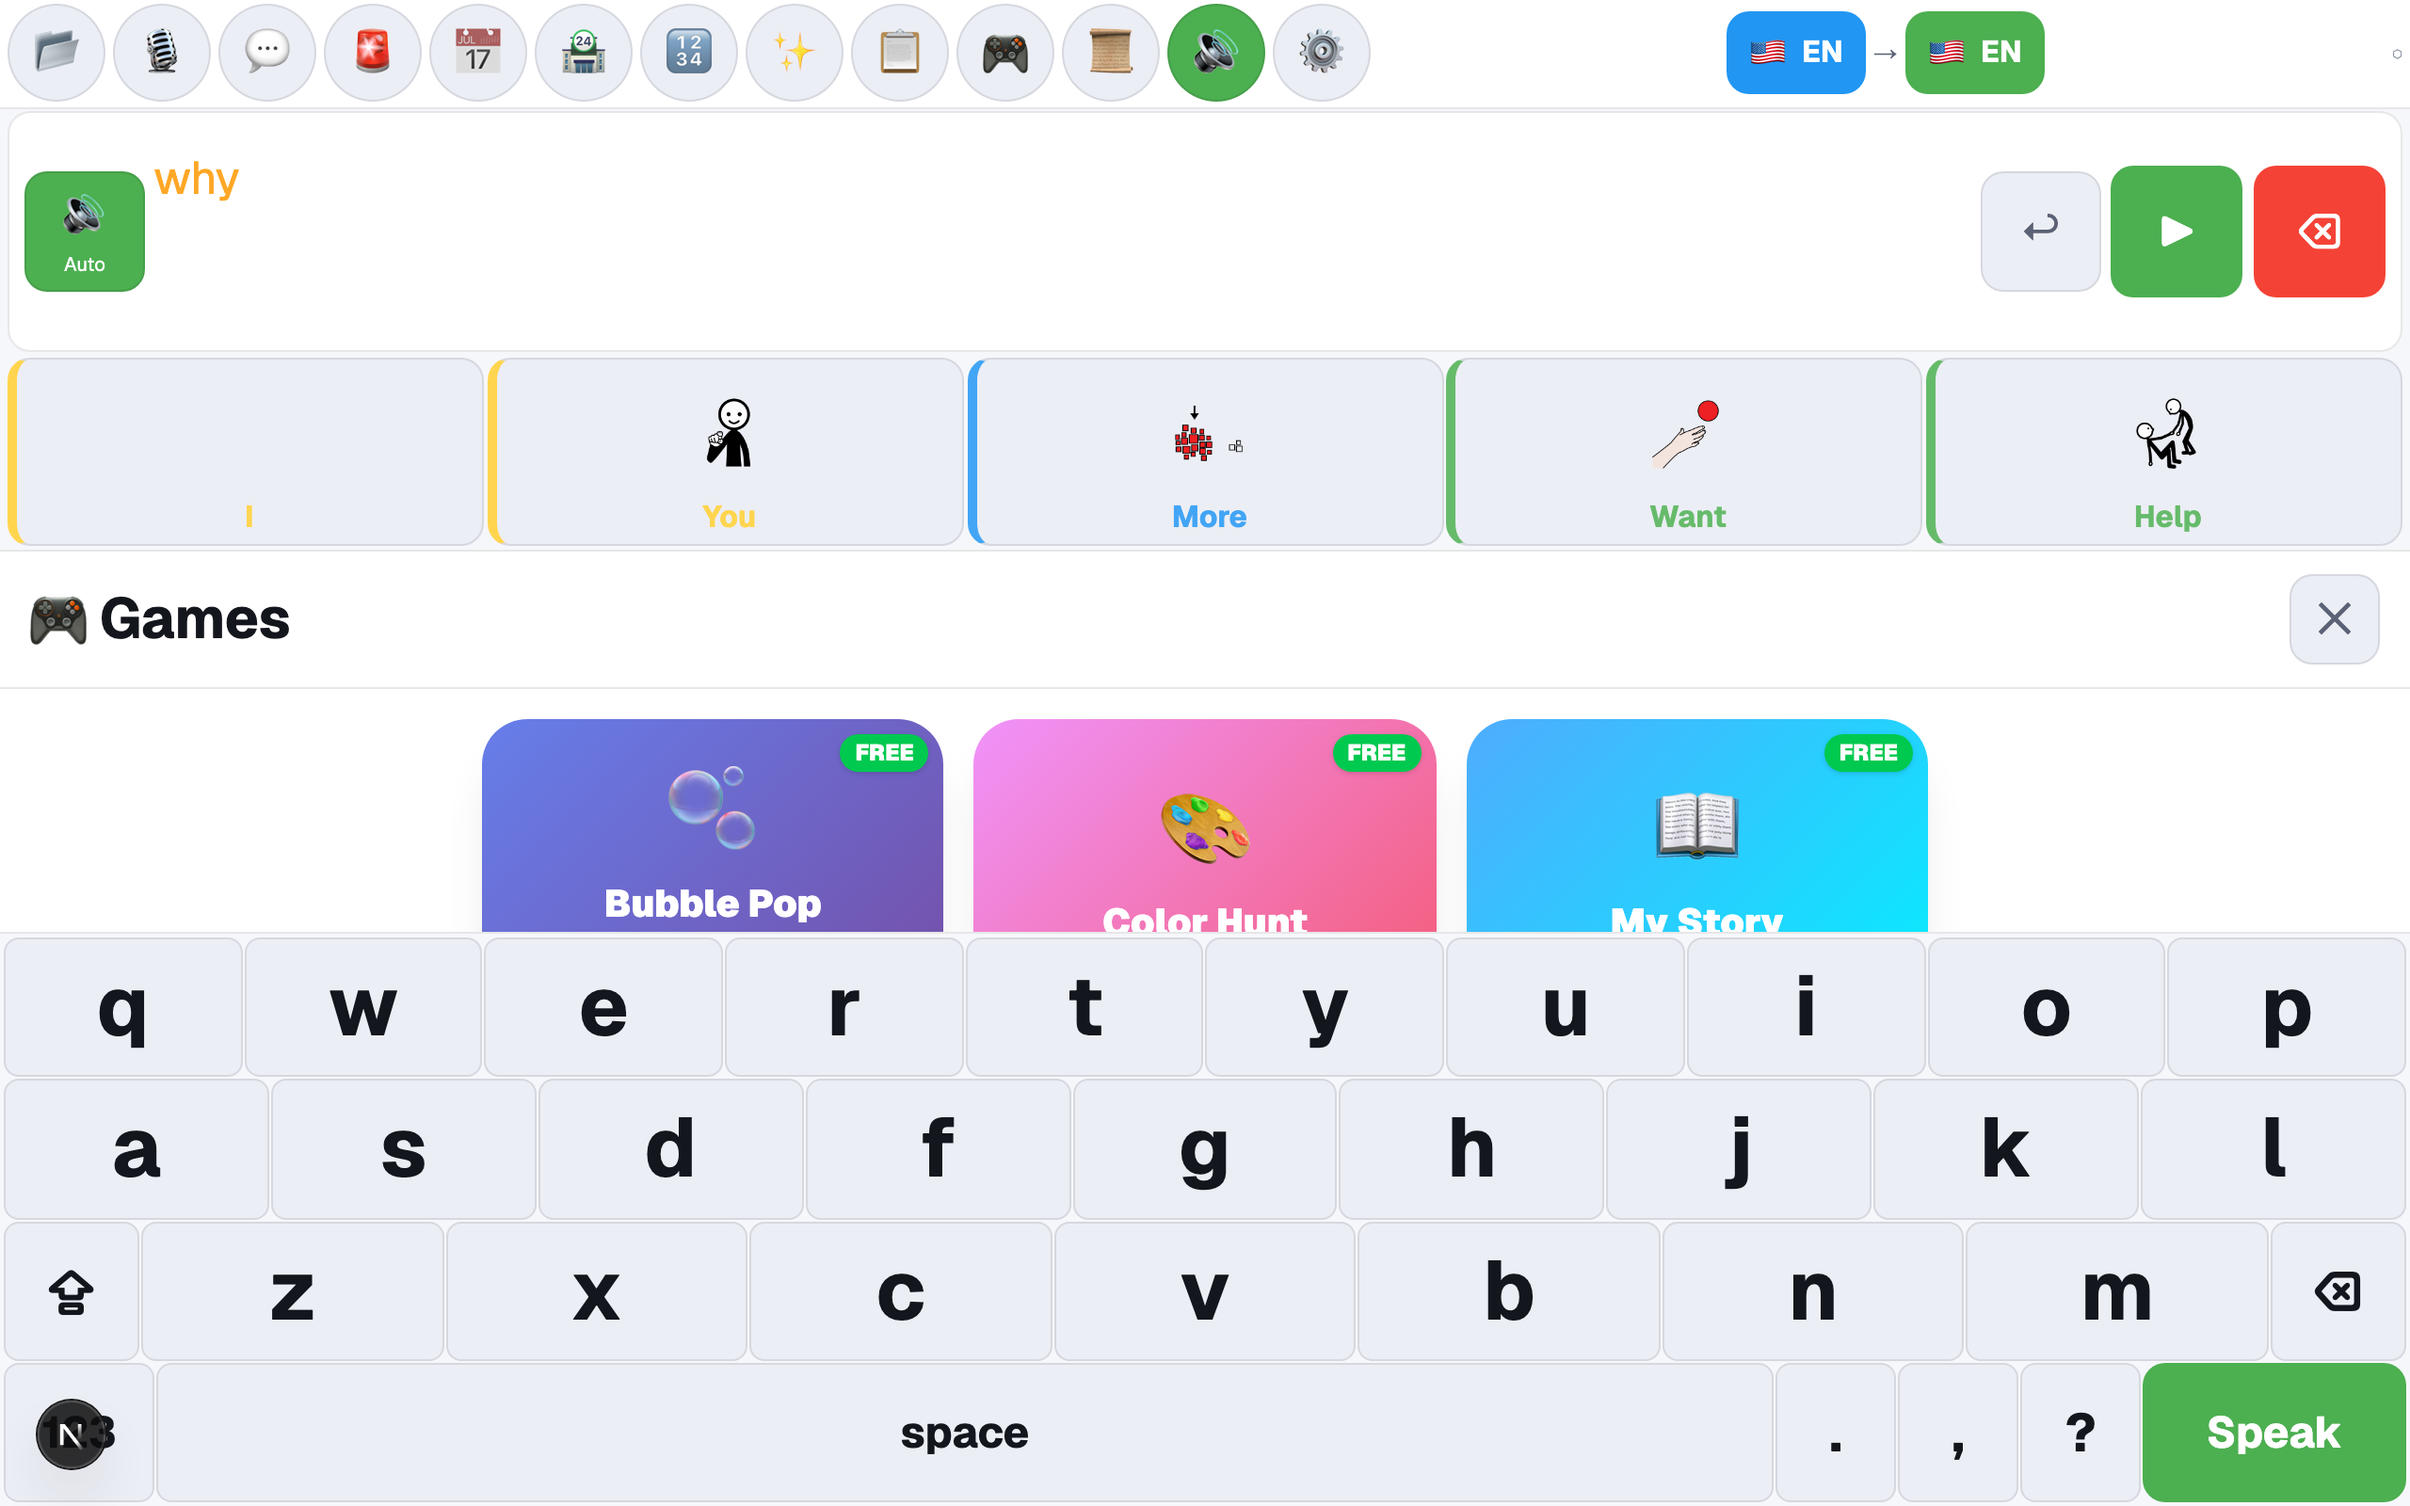
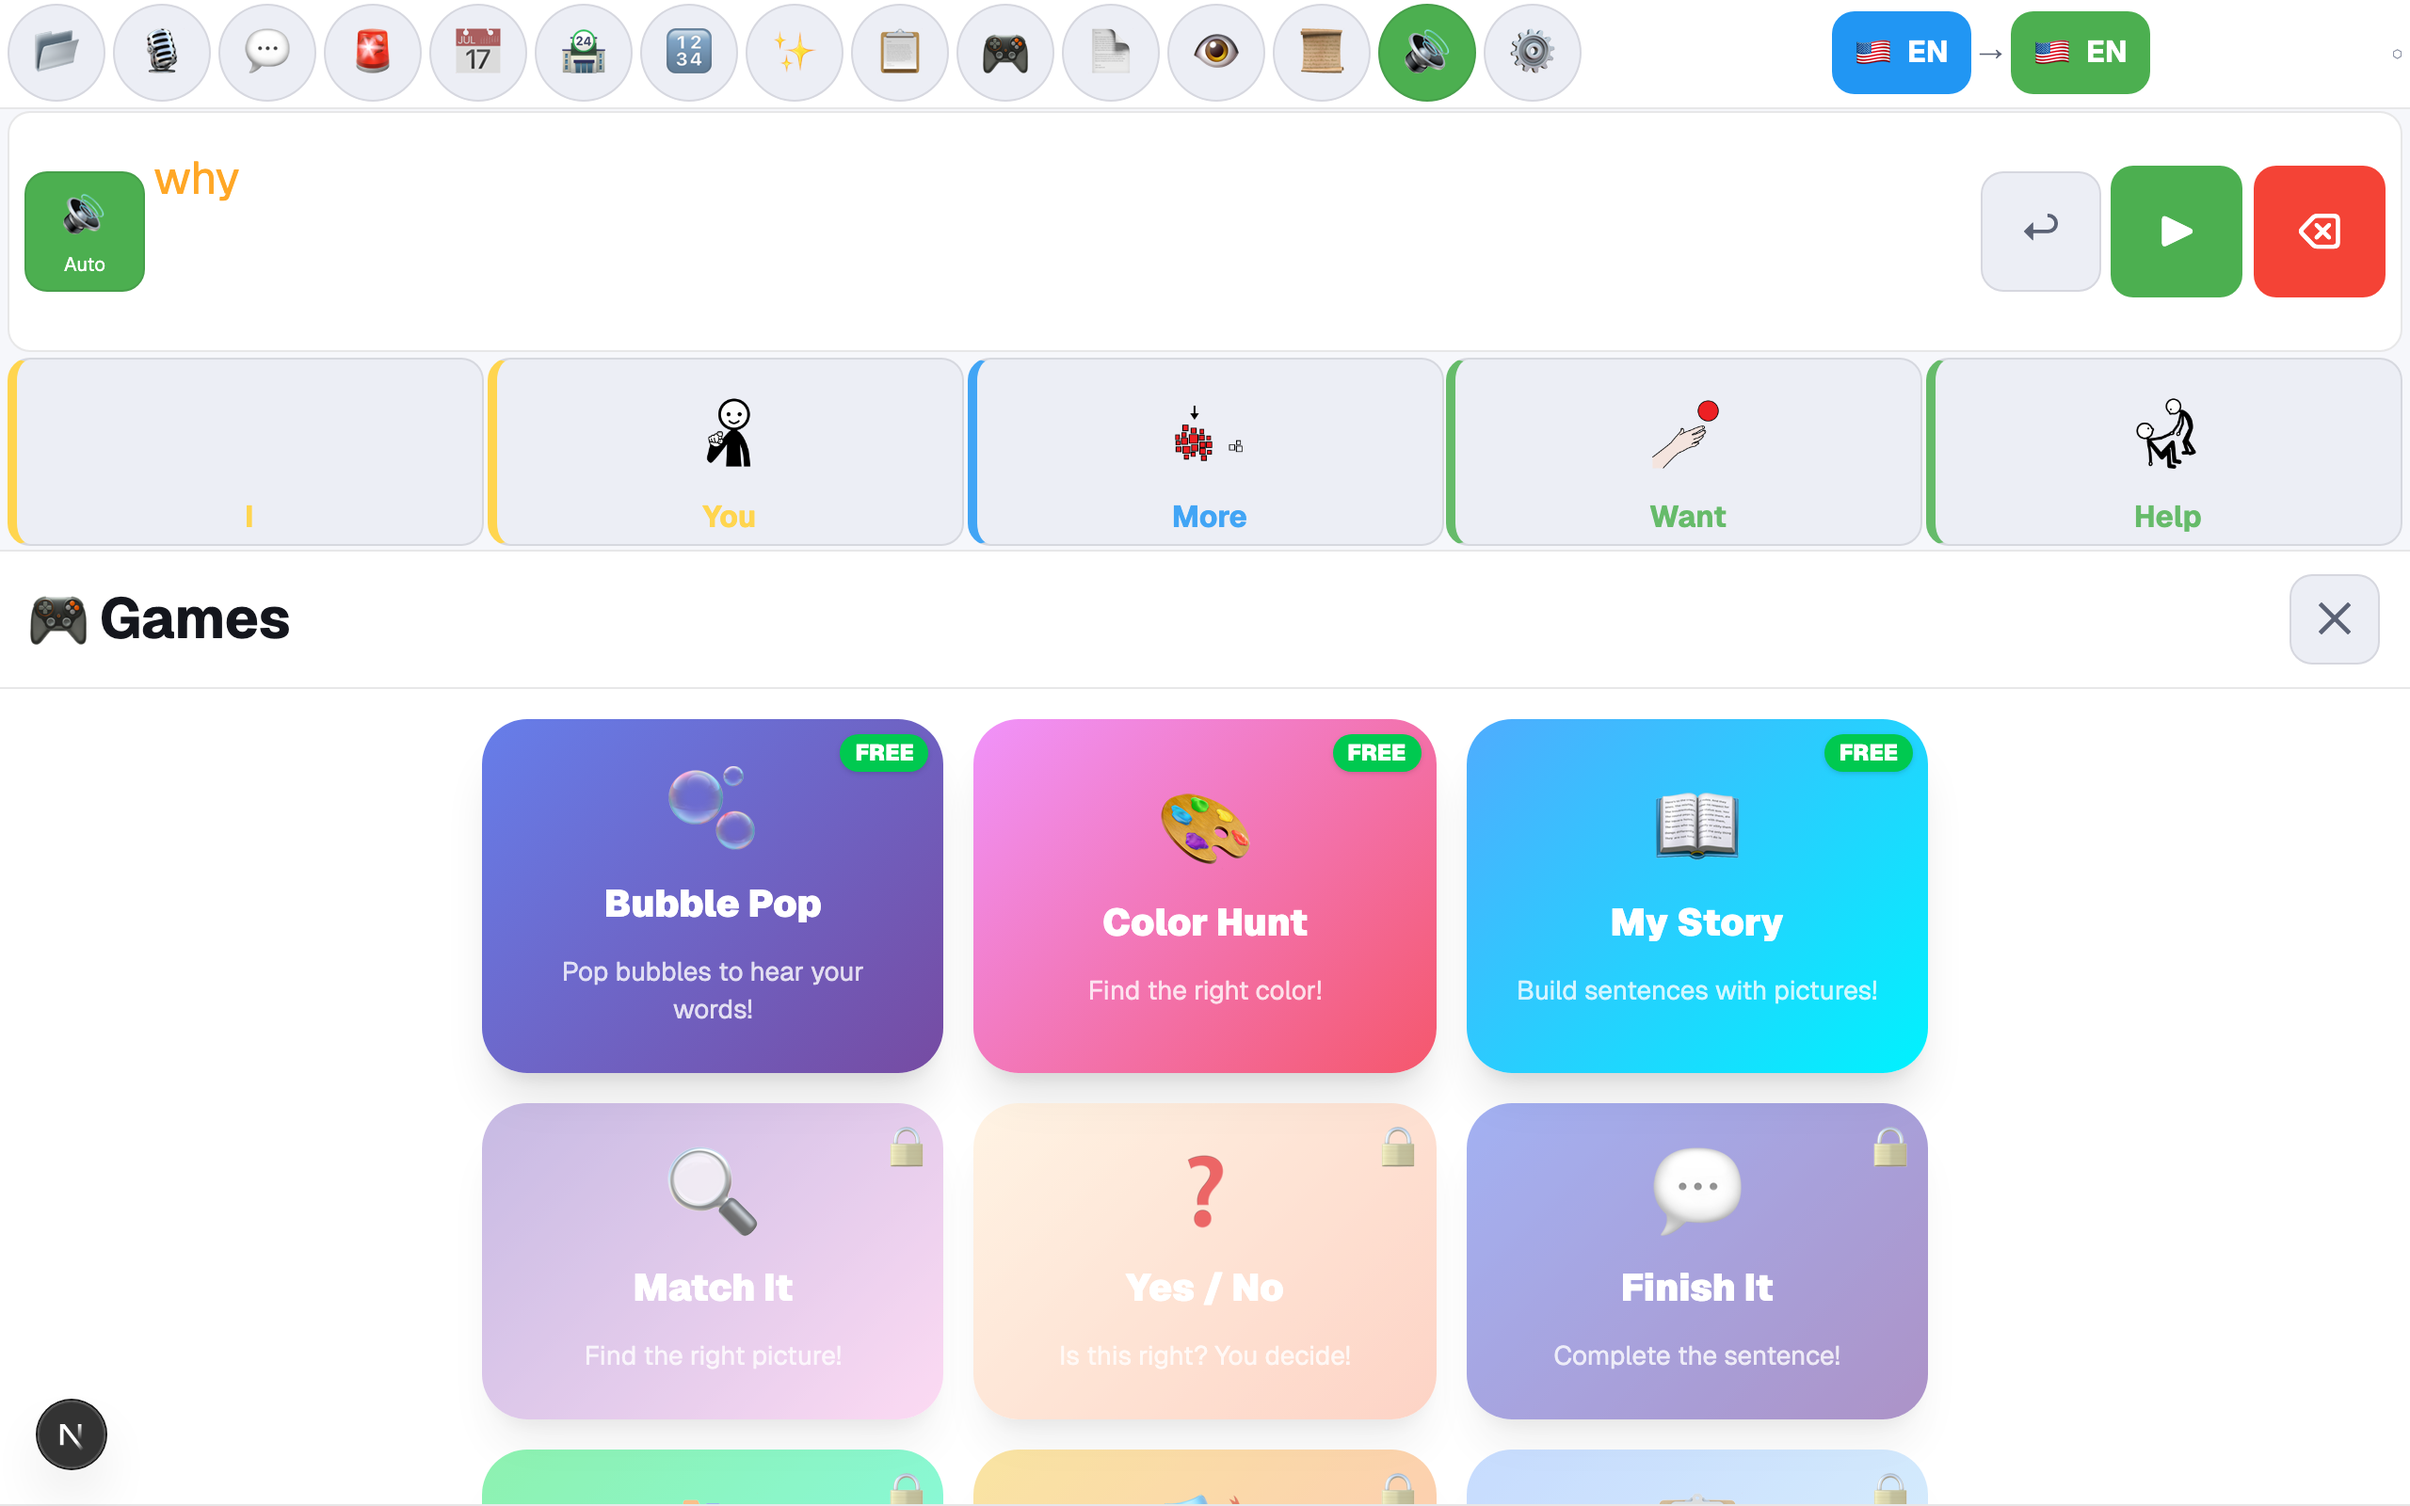
docs(readme): document Read & Write parity — sentence speak + word highlight + PDF reader + OCR
README's Type & speak section now lists the three reading-assistant
features that landed in May 2026:
  • per-word echo on space (existing)
  • full-sentence speak when you finish with .?!
  • word-by-word yellow highlight while TTS reads

Adds two new module sections:
  • 📄 PDF Reader — open a PDF, hear each page in your voice
  • 👁 Screenshot Reader (OCR) — paste a worksheet photo, get text +
    speak / send to bar

scripts/capture-modules-docs.mjs grew two more shots
(panel-pdf-reader, panel-ocr-capture) so the README's images stay
in sync with the live UI. The script's enableAllToolbarButtons map
also gained pdf_reader + ocr_capture so the new chips render in
docs runs.

All 13 docs/screenshots/*.png regenerated against the local dev
server — they show the grown MessageBar, the new PDF/OCR panels,
and the updated panel set.

diff --git a/README.md b/README.md
@@ -81,6 +81,12 @@ On-screen keyboard with **word prediction**, **AI autocomplete**, and a one-tap 
 
 ![Prism AAC keyboard with prediction tiles "I / You / More / Want / Help" above](docs/screenshots/app-hero.png)
 
+**Reading-assistant features (Read & Write parity)** — for users with reading / memory / cognitive needs:
+
+- **Speak per word** — every word echoes through TTS the moment you tap space, so you hear what you typed without waiting for the full sentence.
+- **Speak the sentence on `.?!`** — finishing a sentence with a period, question mark, or exclamation point reads the whole sentence back so you don't lose track of what you wrote (the gap that disqualifies NVDA for sighted users with cognitive disabilities). Toggle via Settings → `speakOnSentenceEnd` (default on).
+- **Word-by-word highlight while speaking** — every spoken word lights up with a yellow background as TTS reads it. Sighted users with reading disabilities can follow along visually; the highlight tracks the audio without needing a special hardware device.
+
 <details>
 <summary><strong>Features + technical details</strong></summary>
 
@@ -89,9 +95,10 @@ On-screen keyboard with **word prediction**, **AI autocomplete**, and a one-tap 
 - Cross-language gate: RO `eu` won't leak into EN bar even when both corpora are loaded (cross-corpus frequency comparison)
 - "Speak" reads with auto-tone adaptation (declarative / interrogative / exclamatory inferred from punctuation)
 - Voice tier 1: Inworld TTS-2; tier 1.5: Kokoro-82M offline; tier 2: OS Web Speech; tier 3: WASM espeak-ng
+- Word highlight is duration-estimated (~60 ms/char @ rate=0.5, scales with the rate slider) — works across every TTS tier without backend changes; precise sync via Azure `wordBoundary` is a future Pro feature.
 - 1.5MB SQLite n-gram corpus per language; unigrams + bigrams + trigrams; lazy-loaded on language switch
 
-**Render path:** `components/Keyboard.tsx` → `messageStore.appendChar` → `predictionStore.updatePredictions(text, lang)` → `engine/predictionEngine.ts` (recency × frequency × n-gram boost) + optional `services/textCorrectService.ts` AI overlay.
+**Render path:** `components/Keyboard.tsx` → `messageStore.appendChar` → `predictionStore.updatePredictions(text, lang)` → `engine/predictionEngine.ts` (recency × frequency × n-gram boost) + optional `services/textCorrectService.ts` AI overlay. Highlight: `services/aacSpeak.ts` emits `tts-highlight-start` events on the `ttsHighlightBus`; `components/MessageBar.tsx` subscribes and passes `activeWordIndex` to `ColoredText`.
 </details>
 
 ---
@@ -270,6 +277,44 @@ Voice packs (Inworld voices, custom-cloned voice of a sibling/parent), vocab pac
 - Per-tier gate: marketplace lists everything but install-buttons disable for items above the user's plan
 
 **Render path:** `components/MarketplacePanel.tsx` → `useMarketplaceStore` → backend `synalux/api/v1/marketplace/...` for purchase, then asset download (voice files, vocab JSON) into IndexedDB.
+</details>
+
+---
+
+### 📄 PDF Reader
+Open a PDF, see one tile per page, tap to hear it spoken in your voice. School worksheets, take-home letters, articles — feed any PDF in and listen instead of trying to read it. No Adobe Reader required; the entire library runs in your browser.
+
+![PDF Reader panel — empty state with "+ Open PDF" prompt](docs/screenshots/panel-pdf-reader.png)
+
+<details>
+<summary><strong>Features + technical details</strong></summary>
+
+- One tile per page; each shows the first 3 lines + a `▶ Page N` button that pipes through `aacSpeak()` (same voice + tone + word-highlight as everything else)
+- `▶ Read all` concatenates every page into one continuous utterance
+- Empty-page detection (scanned-image PDFs) suggests the OCR tool
+- `pdfjs-dist` dynamic-imported on first open — separate ~3 MB chunk from the CDN, version-pinned to the npm package
+- Toolbar button (📄) is opt-in via Settings → Toolbar so the minimal-default toolbar stays clean
+
+**Render path:** `components/PdfReaderPanel.tsx` → `services/pdfReader.ts` (pdfjs `getDocument` → per-page `getTextContent`) → `services/aacSpeak.ts`.
+</details>
+
+---
+
+### 👁 Screenshot Reader (OCR)
+Paste or upload a photo of a worksheet, screenshot of a webpage, picture of a textbook page — the recognized text shows up next to the image and you can tap **▶ Speak** to hear it, or **↧ Send to message bar** to edit before speaking.
+
+![Screenshot Reader (OCR) panel — empty state with "+ Open image" prompt](docs/screenshots/panel-ocr-capture.png)
+
+<details>
+<summary><strong>Features + technical details</strong></summary>
+
+- 20-language OCR matrix mapped from PrismAAC locales to Tesseract codes (eng / spa / fra / por / deu / ron / ukr / rus / jpn / kor / chi_sim / ara / ita / pol / nld / heb / hin / vie / tur / ind)
+- Per-language traineddata files cached after first use (~10 MB for English, more for CJK) — first run shows "Reading the image… (first run downloads the OCR model — may take 10-30 s)"
+- Confidence percentage shown so the AAC user can tell whether to trust the result or re-shoot
+- `disposeOcr()` cleanup hook terminates every spawned worker on page unload to free WASM memory
+- Toolbar button (👁) is opt-in via Settings → Toolbar
+
+**Render path:** `components/OcrCapturePanel.tsx` → `services/ocr.ts` (`tesseract.js` `createWorker` → `recognize`) → `services/aacSpeak.ts` or `messageStore.setText`.
 </details>
 
 ---
